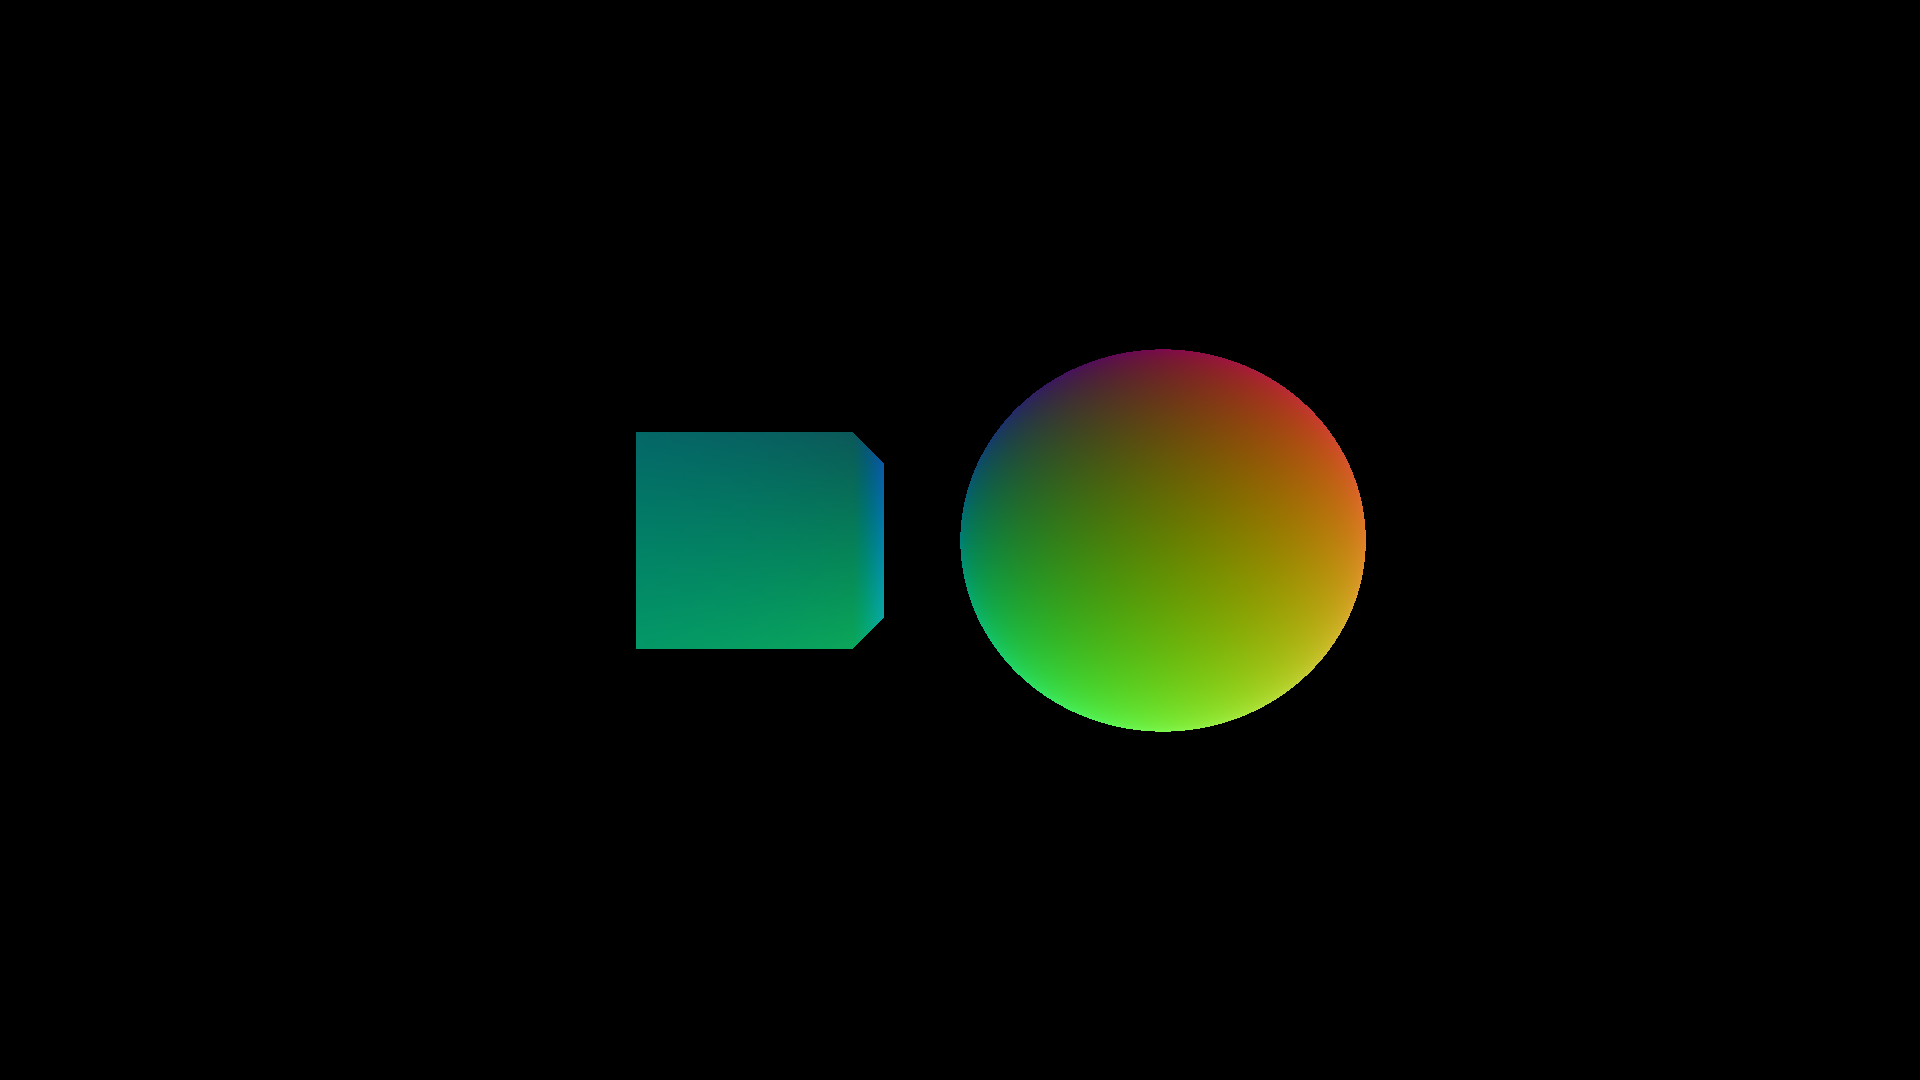
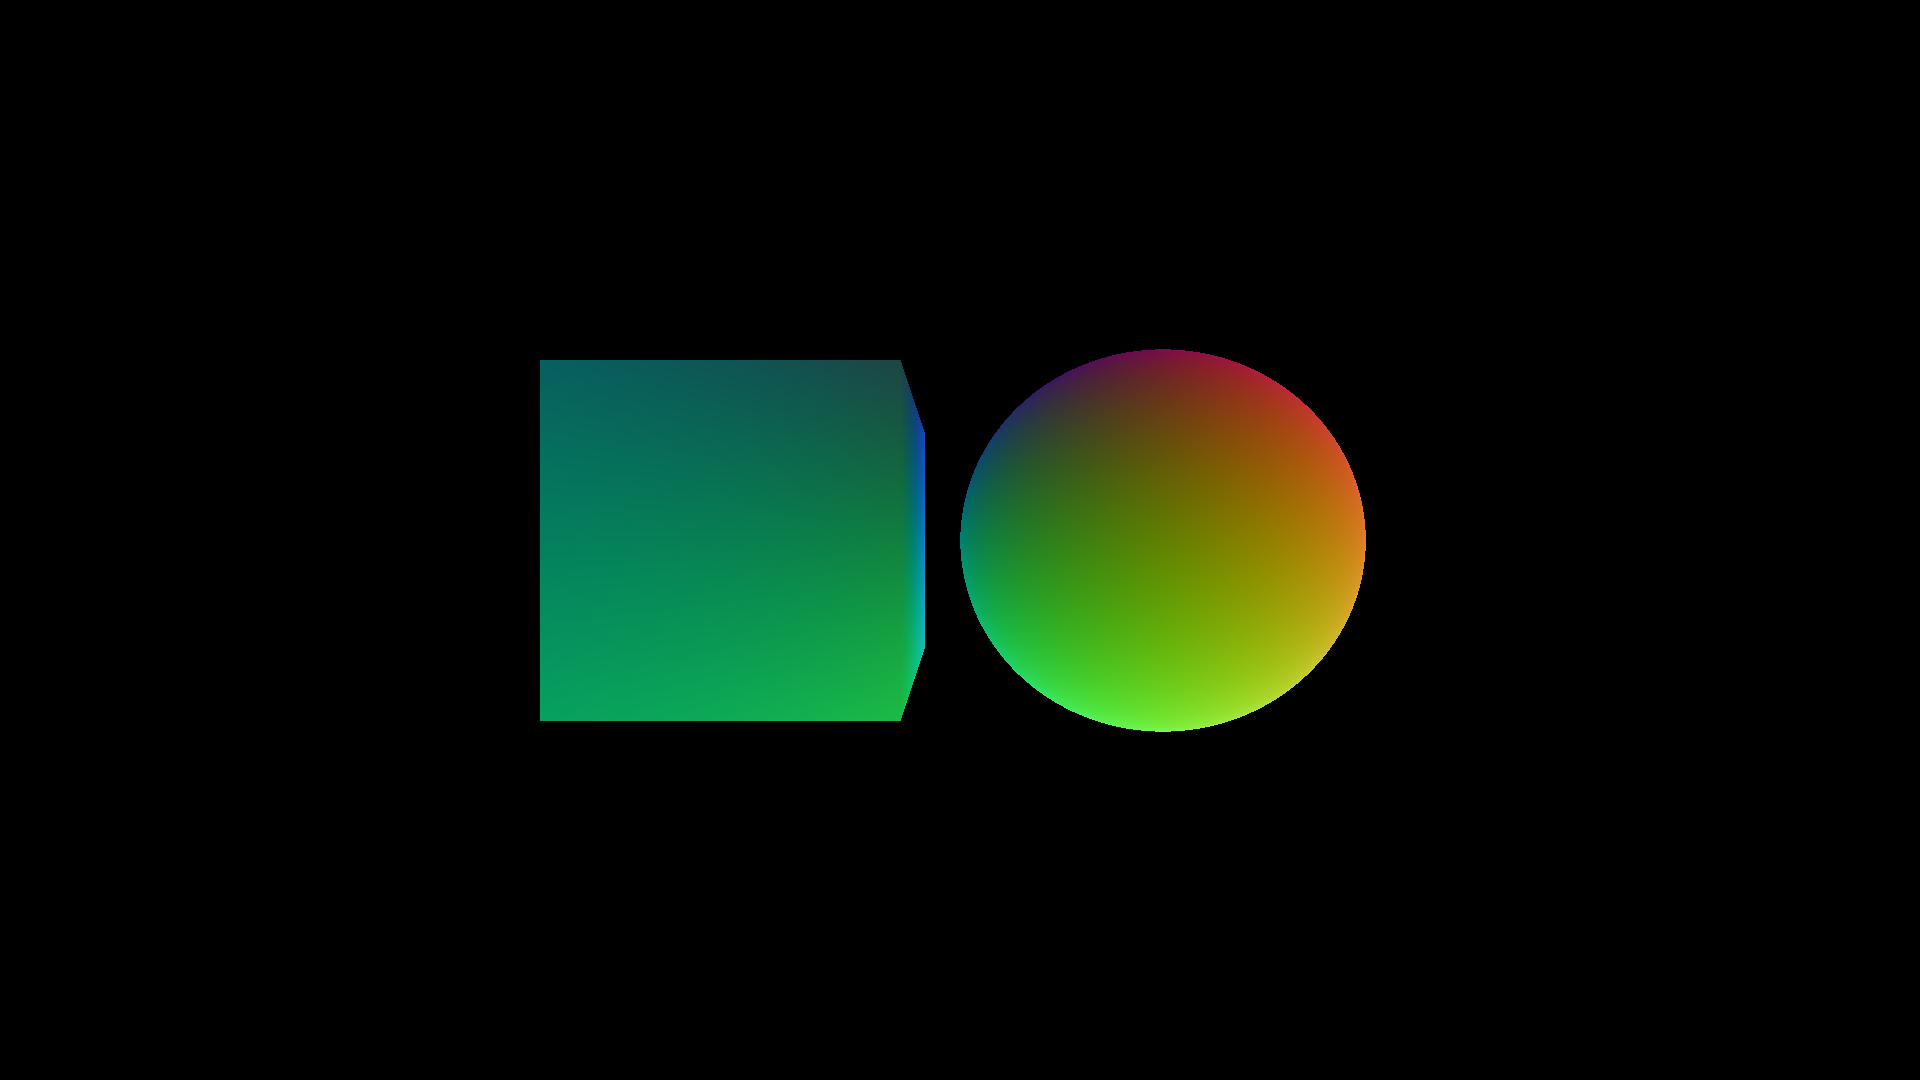
Update cube size in ray tracing logic for improved rendering

Changed region(s): [[0.2812, 0.3361, 0.5, 0.6722]]

diff --git a/src/main.rs b/src/main.rs
@@ -1,4 +1,4 @@
-use image::{RgbImage, Rgb};
+use image::RgbImage;
 
 type Vec3 = glam::Vec3A;
 
@@ -75,7 +75,7 @@ fn main() {
 
     let cube = Cube {
         center: Vec3::new(-1.0, 0.0, 3.0),
-        size: 0.5,
+        size: 0.75,
     };
 
     let shapes : Vec<&dyn Sdf> = vec![&sphere, &cube];
